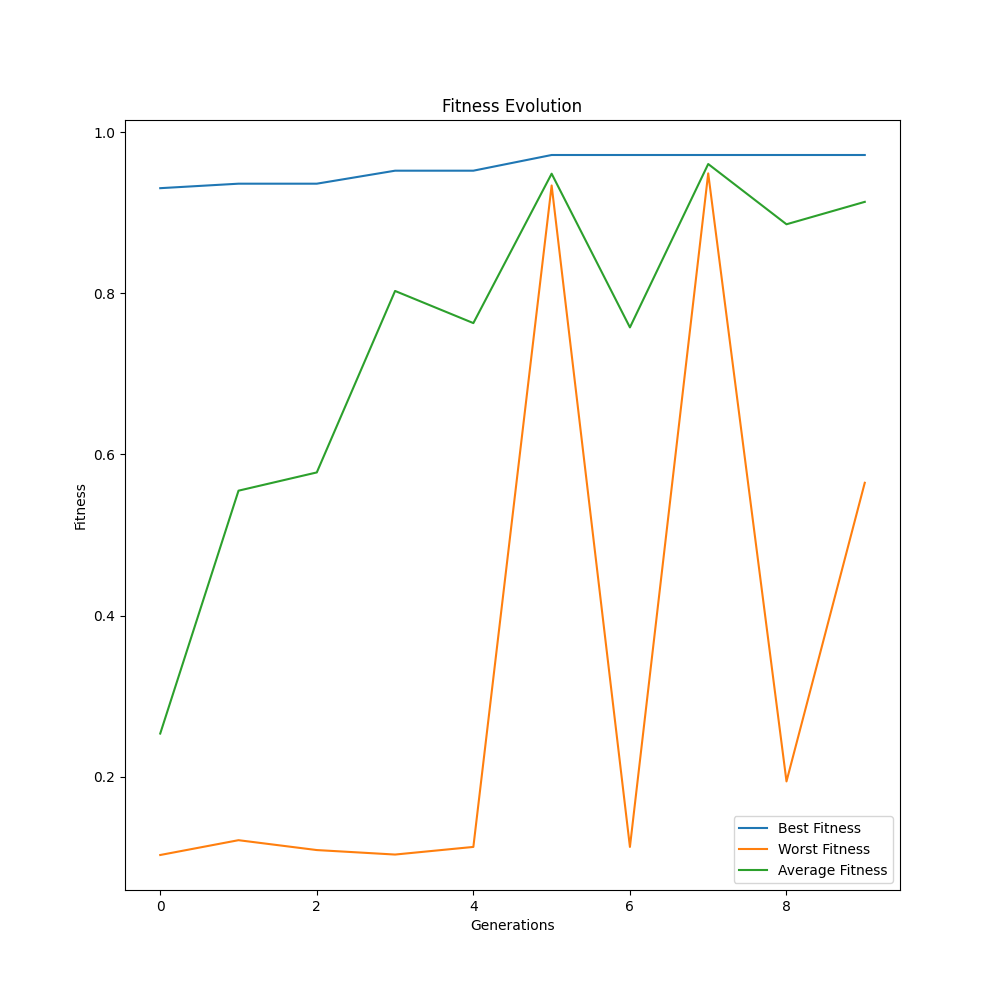
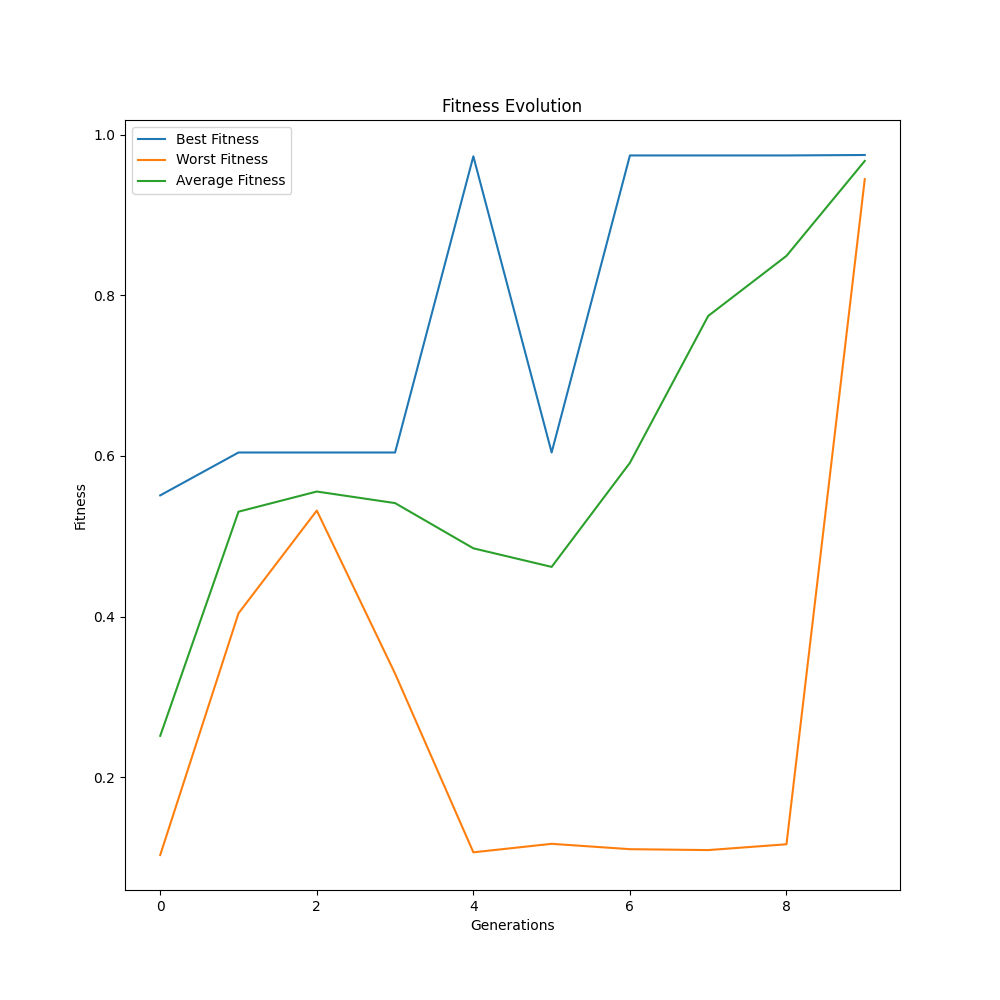
at 15:08 22/11/02

diff --git a/Shadi/main.py b/Shadi/main.py
@@ -20,12 +20,12 @@ r_mut = 1.0 / (float(n_bits) * len(bounds))
 #--------------------------------------------------------------------------------------------------------
 # perform the genetic algorithm search
 
-best_para, best_fit = genetic_algorithm(fitness_function, bounds, n_bits, Generations, n_pop, r_cross, r_mut)
-print('Done!')
-decoded = decode(bounds, n_bits, best_para)
-print('best_parameters:%s' % decoded)
-plot()
+# best_para, best_fit = genetic_algorithm(fitness_function, bounds, n_bits, Generations, n_pop, r_cross, r_mut)
+# print('Done!')
+# decoded = decode(bounds, n_bits, best_para)
+# print('best_parameters:%s' % decoded)
+# plot()
 
 #--------------------------------------------------------------------------------------------------------
 
-# CSO(fitness=fitness_function, bound=[(1.0, 10.0),(0.0001, 0.1)], n_pop=n_pop, Generations=Generations, verbose=True).execute()
+CSO(fitness=fitness_function, bound=[(1.0, 10.0),(0.001, 0.1)], n_pop=n_pop, Generations=Generations, verbose=True).execute()
